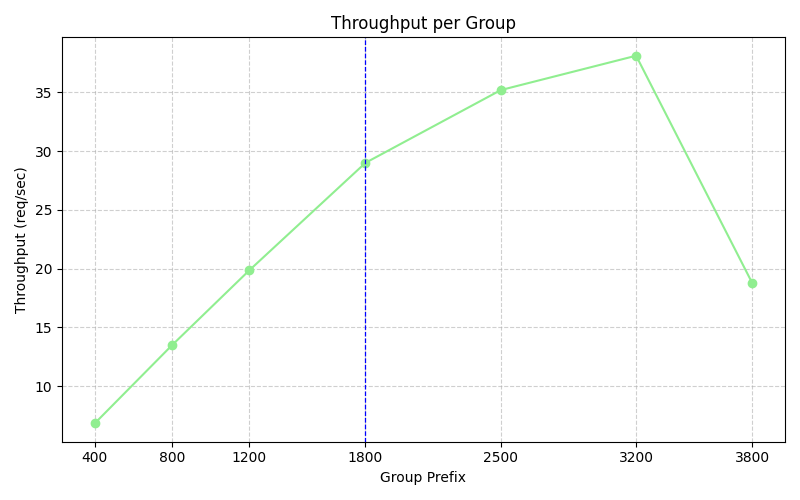
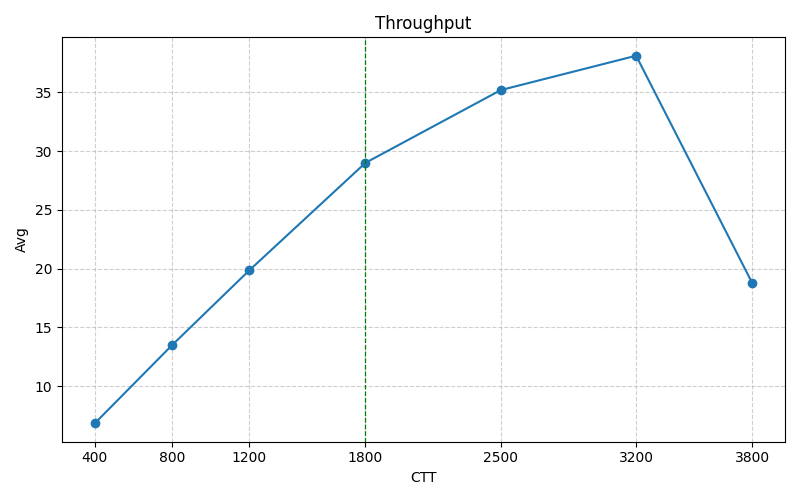
add bottleneck plot + improve code

diff --git a/homework/capacity_test/test_bottleneck.py b/homework/capacity_test/test_bottleneck.py
@@ -1,0 +1,94 @@
+import pandas as pd
+import glob
+import os
+import matplotlib.pyplot as plt
+from common import plot_metrics
+
+def process_csv(file_path):
+    df = pd.read_csv(file_path,  sep="\\s+", skiprows=1)
+
+    averages = df.mean().to_dict()
+
+    # Add filename as column
+    averages["file"] = os.path.basename(file_path)
+
+    return averages
+
+
+def process_summary(summary_file="summary_results.csv"):
+    df = pd.read_csv(summary_file)
+
+    # Extract prefix before "_<number>.csv"
+    df["group"] = df["file"].str.extract(r"_(\d+)_")[0]
+
+    # Group by prefix and average values
+    grouped = (
+        df.groupby("group")[df.columns.difference(["file", "group"])]
+        .mean()
+        .reset_index()
+    )
+
+    # Save the grouped summary
+    output_file = os.path.splitext(summary_file)[0] + "_grouped.csv"
+    grouped.to_csv(output_file, index=False)
+
+    print(f"✅ Grouped summary written to: {output_file}")
+    return grouped
+
+
+def plot_grouped_summary(grouped_df, output_prefix="summary_plot_vmstat"):
+    plot_dir = os.path.join(os.path.dirname(os.path.abspath(__file__)), "plot/vmstat")
+    
+    # Extract numeric prefix from group name for sorting (e.g., "150_CTT" -> 150)
+    grouped_df["prefix"] = grouped_df["group"].str.extract(r"^(\d+)")
+    grouped_df["prefix"] = pd.to_numeric(grouped_df["prefix"], errors="coerce")
+    # Sort by prefix
+    grouped_df = grouped_df.sort_values("prefix")
+    
+
+    # --- Plot CPU parameters ---
+    metrics = ["us", "sy", "id", "wa", "st", "gu"]
+    plot_metrics(grouped_df, metrics, plot_dir, f"{output_prefix}_avg_cpu", "CTT", "Avg", "CPU group", True)
+    
+    # --- Plot IO parameters ---
+    metrics = ["bi", "bo"]
+    plot_metrics(grouped_df, metrics, plot_dir, f"{output_prefix}_avg_io", "CTT", "Avg", "IO group", True)
+    
+    # --- Plot MEMORY parameters ---
+    metrics = ["swpd", "free", "buff", "cache"]
+    plot_metrics(grouped_df, metrics, plot_dir, f"{output_prefix}_avg_memory", "CTT", "Avg", "MEMORY group", True)
+    
+    # --- Plot PROCS parameters ---
+    metrics = ["r", "b"]
+    plot_metrics(grouped_df, metrics, plot_dir, f"{output_prefix}_avg_procs", "CTT", "Avg", "PROCS group", True)
+
+    # --- Plot SWAP parameters ---
+    metrics = ["si", "so"]
+    plot_metrics(grouped_df, metrics, plot_dir, f"{output_prefix}_avg_swap", "CTT", "Avg", "SWAP group", True)
+    
+    # --- Plot SYSTEM parameters ---
+    metrics = ["in", "cs"]
+    plot_metrics(grouped_df, metrics, plot_dir, f"{output_prefix}_avg_system", "CTT", "Avg", "SYSTEM group", True)
+
+
+if __name__ == "__main__":
+    # Get absolute path to the directory of this script
+    script_dir = os.path.dirname(os.path.abspath(__file__))
+    vmstat = os.path.join(script_dir, "vmstat")
+
+    csv_files = glob.glob(os.path.join(vmstat, "*.csv"))
+
+    results = []
+    for file in csv_files:
+        metrics = process_csv(file)
+        results.append(metrics)
+
+    # Save results into a summary CSV
+    results_df = pd.DataFrame(results)
+    results_df.to_csv("homework/capacity_test/summary_results_vmstat.csv", index=False)
+
+    print("Summary written to summary_results.csv")
+
+    to_plot = process_summary(os.path.join(script_dir, "summary_results_vmstat.csv"))
+
+    plot_grouped_summary(to_plot)

diff --git a/homework/capacity_test/test_capacity.py b/homework/capacity_test/test_capacity.py
@@ -2,6 +2,7 @@ import pandas as pd
 import glob
 import os
 import matplotlib.pyplot as plt
+from common import plot_metrics
 
 def process_csv(file_path):
     # Read CSV file
@@ -72,58 +73,13 @@ def plot_grouped_summary(grouped_df, output_prefix="summary_plot"):
     x_for_max_power = grouped_df.loc[max_power_index, "prefix"]
 
     # --- Plot Average Response Time ---
-    plt.figure(figsize=(8, 5))
-    plt.plot(grouped_df["prefix"], grouped_df["avg_response_time_ms"], marker="o", linestyle="-", color="lightgreen")
-    plt.xlabel("Group Prefix")
-    plt.ylabel("Avg Response Time (ms)")
-    plt.title("Average Response Time per Group")
-    plt.grid(True, linestyle="--", alpha=0.6)
-    plt.xticks(grouped_df["prefix"])
-    plt.axvline(
-        x=x_for_max_power,
-        color='blue',
-        linestyle='--',
-        linewidth=0.9,
-    )
-    plt.tight_layout()
-    plt.savefig(f"{plot_dir}/{output_prefix}_avg_response_time.png")
-    plt.close()
+    plot_metrics(grouped_df, "avg_response_time_ms", plot_dir, f"{output_prefix}_avg_response_time", "CTT", "Avg [ms]", "Response Time", axvline_x=x_for_max_power)
 
     # --- Plot Throughput ---
-    plt.figure(figsize=(8, 5))
-    plt.plot(grouped_df["prefix"], grouped_df["throughput"], marker="o", linestyle="-", color="lightgreen")
-    plt.xlabel("Group Prefix")
-    plt.ylabel("Throughput (req/sec)")
-    plt.title("Throughput per Group")
-    plt.grid(True, linestyle="--", alpha=0.6)
-    plt.xticks(grouped_df["prefix"])
-    plt.axvline(
-        x=x_for_max_power,
-        color='blue',
-        linestyle='--',
-        linewidth=0.9,
-    )
-    plt.tight_layout()
-    plt.savefig(f"{plot_dir}/{output_prefix}_throughput.png")
-    plt.close()
+    plot_metrics(grouped_df, "throughput", plot_dir, f"{output_prefix}_throughput", "CTT", "Avg", "Throughput", axvline_x=x_for_max_power)
 
     # --- Plot Power ---
-    plt.figure(figsize=(8, 5))
-    plt.plot(grouped_df["prefix"], grouped_df["power"], marker="o", linestyle="-", color="lightgreen")
-    plt.xlabel("Group Prefix")
-    plt.ylabel("Power")
-    plt.title("Power per Group")
-    plt.grid(True, linestyle="--", alpha=0.6)
-    plt.xticks(grouped_df["prefix"])
-    plt.axvline(
-        x=x_for_max_power,
-        color='blue',
-        linestyle='--',
-        linewidth=0.9,
-    )
-    plt.tight_layout()
-    plt.savefig(f"{plot_dir}/{output_prefix}_power.png")
-    plt.close()
+    plot_metrics(grouped_df, "power", plot_dir, f"{output_prefix}_power", "CTT", "Avg", "Power", axvline_x=x_for_max_power)
 
     print(f"✅ Line plots saved as {output_prefix}_avg_response_time.png and {output_prefix}_throughput.png")
 

diff --git a/homework/capacity_test/common.py b/homework/capacity_test/common.py
@@ -1,0 +1,27 @@
+import pandas as pd
+import glob
+import os
+import matplotlib.pyplot as plt
+
+def plot_metrics(grouped_df, metrics, plot_dir, output_file_name, xLabel: str, yLabel: str, title: str, legend: bool = False, axvline_x = None,):
+    plt.figure(figsize=(8, 5))
+    # Plot each metric as a line
+    for col in [metrics]:
+        plt.plot(grouped_df["prefix"], grouped_df[col], marker="o", linestyle="-", label=col)
+    plt.xlabel(xLabel)
+    plt.ylabel(yLabel)
+    plt.title(title)
+    plt.grid(True, linestyle="--", alpha=0.6)
+    if legend:
+        plt.legend(title="metric")
+    if axvline_x:
+        plt.axvline(
+            x=axvline_x,
+            color='green',
+            linestyle='--',
+            linewidth=0.9,
+        )
+    plt.xticks(grouped_df["prefix"])
+    plt.tight_layout()
+    plt.savefig(f"{plot_dir}/{output_file_name}.png")
+    plt.close()
